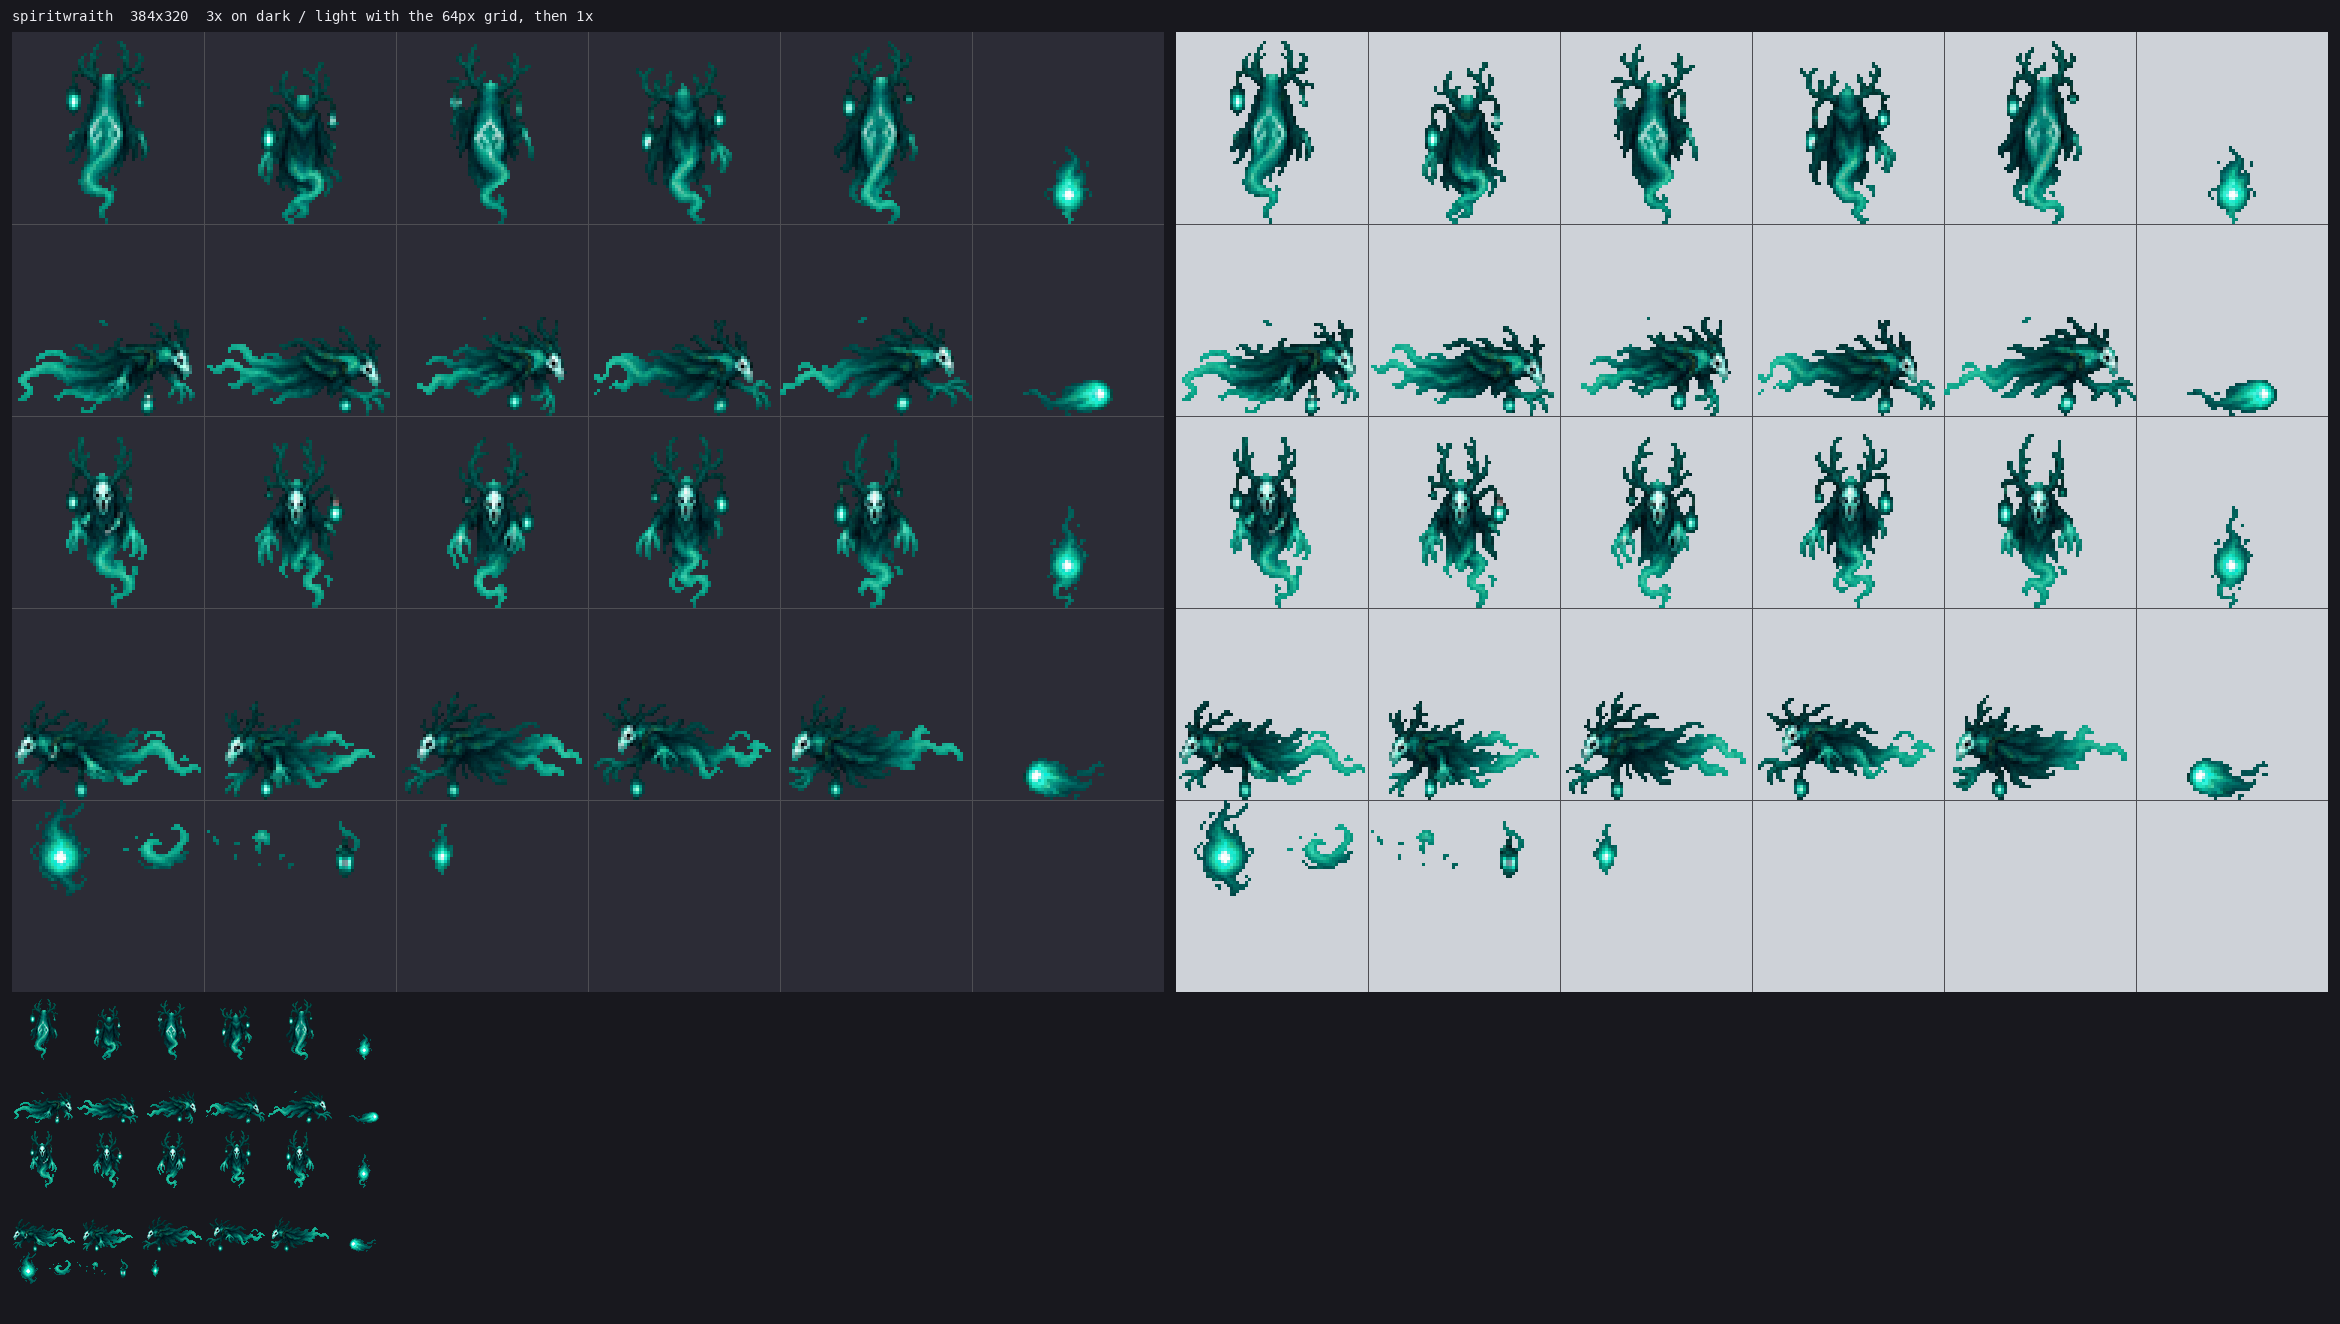
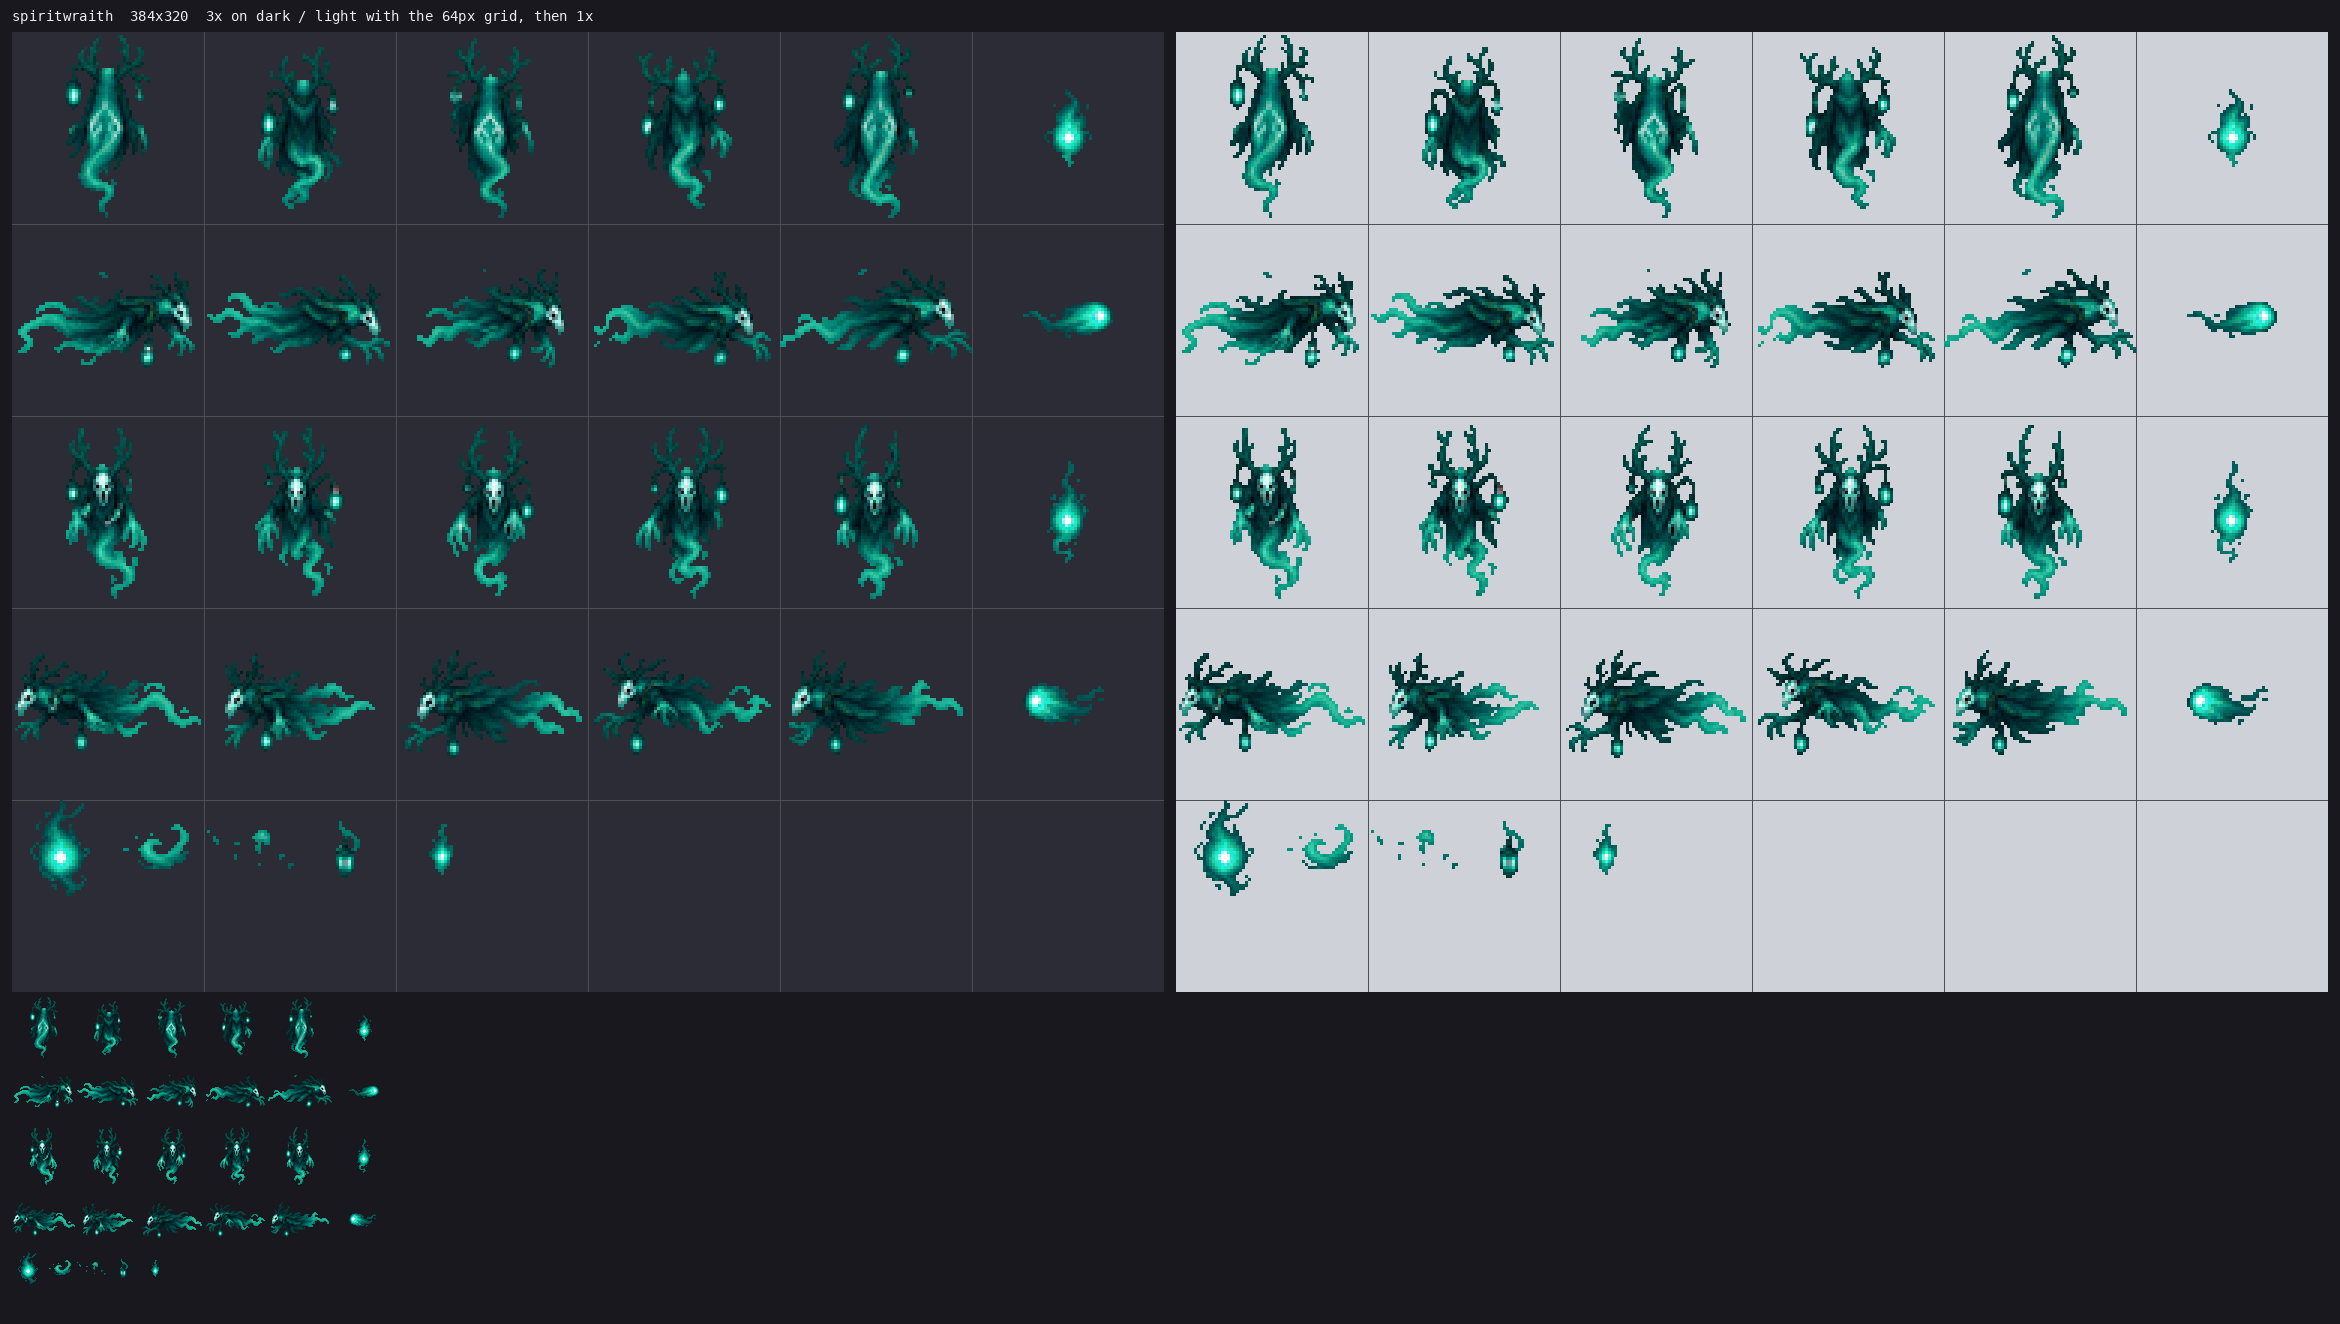
resheet_mob: centre frames in the cell instead of bottom-aligning them
"der wraith ist bei dir aber nicht sauber ausgerichtet" -- right, and the
measurement names it exactly. The wraith's five UP frames are 264, 231, 259,
235 and 261 px tall, while their centroids all sit at 0.45-0.51 of their own
height. So the bodies do not disagree at all and the bottom edges disagree by
33 px: bottom-aligned, the ghost bobs frame to frame.

Bottom-aligning assumes a frame's lower edge means something, which holds when
frames share a baseline and fails when each is cropped to its own content --
which is what an export of cut frames is. Centring is what "vertikal ausrichten
im jeweiligen 64x64px ausschnitt" actually asks for, and on this art it is also
centroid alignment, since the centroids are already at the middle.

--anchor bottom restores the old behaviour for a ground animal whose frames
really were cut on a shared baseline.

Claude-Session: https://claude.ai/code/session_01HnNZ8fgewte9549T5gLwyk

diff --git a/tools/resheet_mob.py b/tools/resheet_mob.py
@@ -515,7 +515,8 @@ def load_folder(root, cols=COLS, want_rows=ROWS):
     return out, gib, "; ".join(notes) or "%d row folder(s)" % len(out)
 
 
-def resheet_frames(rows, gib=None, cell=CELL, cols=COLS, want_rows=ROWS):
+def resheet_frames(rows, gib=None, cell=CELL, cols=COLS, want_rows=ROWS,
+                   anchor="center"):
     """Compose already-cut frames onto the 384x320 grid.
 
     The same two rules the sheet path settled on, for the same reasons: ONE
@@ -524,11 +525,17 @@ def resheet_frames(rows, gib=None, cell=CELL, cols=COLS, want_rows=ROWS):
     sprite(col, row, 64) and anything past the cell edge is not on the sheet at
     all; and each frame centred in its own cell, sitting on the cell floor.
 
-    Bottom-aligning is right HERE and would be wrong on a flat sheet: an
-    exported frame is cropped to its own content, so a lifted hoof has already
-    become a shorter frame, and putting its bottom on the floor keeps the lift.
-    On a sheet the frames share one crop, which is why that path measures from
-    the row's floor instead.
+    Frames are CENTRED in their cell, not bottom-aligned, and that was the last
+    thing wrong with the wraith. Bottom-aligning assumes a frame's lower edge
+    means something -- true when a crop shares its baseline with its siblings,
+    false for frames each cropped to their own content. Measured on the
+    supplied wraith: its five UP frames are 264, 231, 259, 235 and 261 px tall
+    with their centroids all at 0.45-0.51 of their own height, so their bottoms
+    disagree by 33 px while their bodies do not disagree at all. Bottom-aligned
+    they bob; centred they hold still.
+
+    `anchor="bottom"` restores the old behaviour for a ground animal whose
+    frames really were cut on a shared baseline.
     """
     if len(rows) < want_rows:
         return None, "only %d row(s), need %d" % (len(rows), want_rows)
@@ -543,10 +550,11 @@ def resheet_frames(rows, gib=None, cell=CELL, cols=COLS, want_rows=ROWS):
             nh = max(1, round(frame.height * scale))
             small = frame.resize((nw, nh), Image.LANCZOS)
             dx = ci * cell + (cell - nw) // 2
-            dy = ri * cell + cell - nh
+            dy = (ri * cell + cell - nh if anchor == "bottom"
+                  else ri * cell + (cell - nh) // 2)
             sheet.alpha_composite(small, (dx, max(ri * cell, dy)))
-    note = "scale %.4f (widest %dpx, tallest %dpx -> %dpx cell)" % (
-        scale, wmax, hmax, cell)
+    note = "scale %.4f (widest %dpx, tallest %dpx -> %dpx cell), %s-anchored" % (
+        scale, wmax, hmax, cell, anchor)
     if gib:
         gs = min(32.0 / max(im.width for im in gib),
                  32.0 / max(im.height for im in gib))
@@ -606,6 +614,11 @@ def main():
                     help="report the detected rows and sprites, write nothing")
     ap.add_argument("--tol", type=int, default=42,
                     help="background keying tolerance (default 42)")
+    ap.add_argument("--anchor", choices=("center", "bottom"), default="center",
+                    help="folder mode: where a frame sits in its cell. center "
+                         "(default) holds a body still across frames of "
+                         "differing height; bottom suits a ground animal whose "
+                         "frames were cut on a shared baseline.")
     ap.add_argument("--rows", default=None,
                     help="explicit row boundaries as y0,y1,y2,y3,y4 (5 numbers "
                          "for 4 rows). Use when --inspect shows a direction "
@@ -633,7 +646,7 @@ def main():
                   % (i, len(r), max(x.width for x in r), max(x.height for x in r)))
         if args.inspect:
             return 0
-        sheet, msg = resheet_frames(rows, gib)
+        sheet, msg = resheet_frames(rows, gib, anchor=args.anchor)
         print("  %s" % msg)
         if sheet is None:
             return 1
